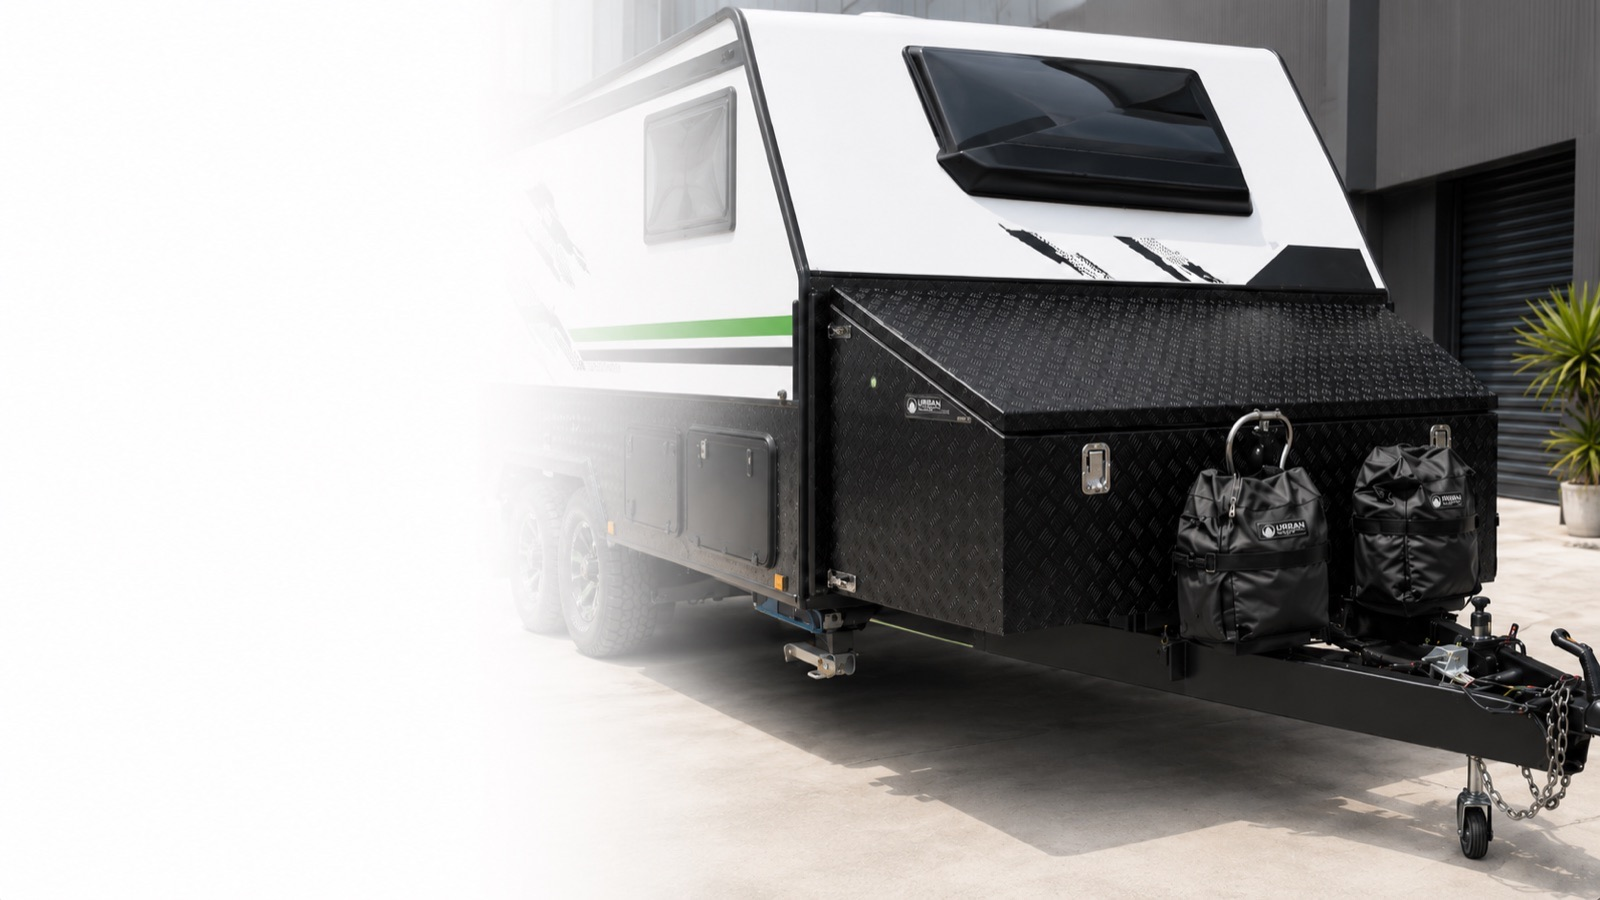
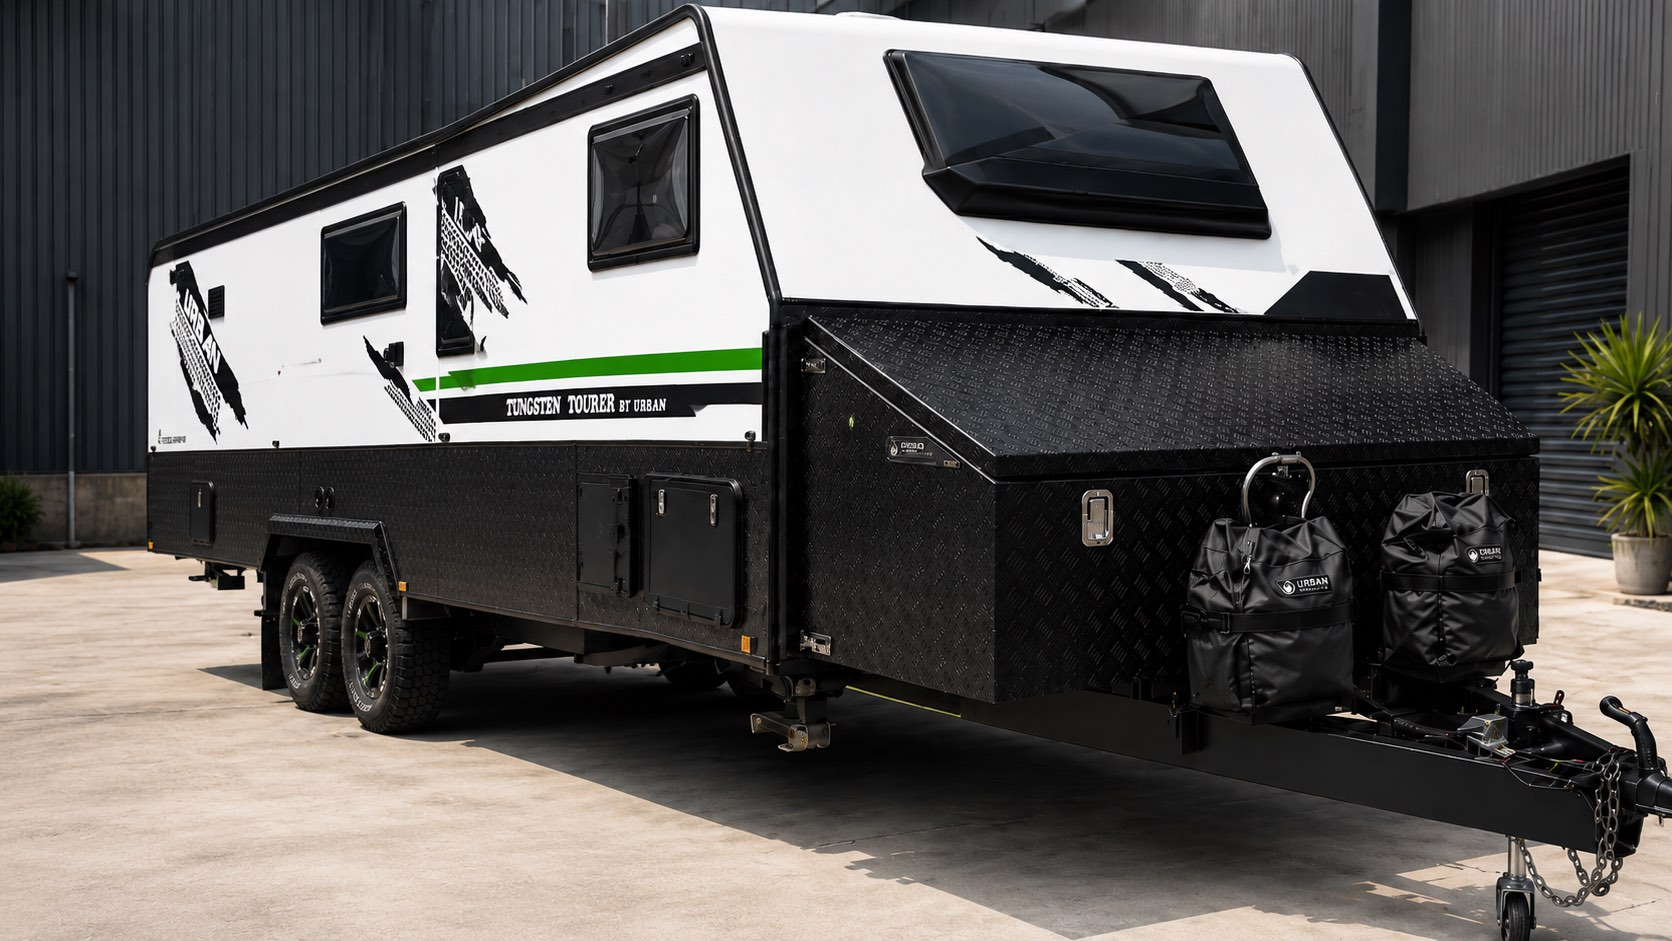
Swap hero caravan photo to Tungsten Tourer, reframe both slides lower
Replace the caravan hero shot with the Tungsten Tourer build and re-enable
its white scrim (the black checkerplate toolbox now sweeps into the left of
frame, so the ink headline needs it). Shift object-position down on both
slides so the vehicles aren't cropped at the wheels.

diff --git a/src/content/hero.js b/src/content/hero.js
@@ -19,16 +19,15 @@ export const hero = {
     slides: [
       {
         img: '/images/ute-hero.jpg',
-        pos: 'center 32%',
+        pos: 'center 58%',
         alt: 'Ute fitted with dual custom Urban Toolboxes checkerplate canopies',
       },
       {
         img: '/brand/hero-caravan.jpg',
-        pos: 'center 42%',
-        alt: 'Caravan fitted with a custom Urban Toolboxes checkerplate toolbox',
-        // This photo is bright on the left, so it reads clean without the white
-        // scrim — show it full-bleed and let the scrim fade out while it's up.
-        scrim: false,
+        pos: 'center 64%',
+        alt: 'Tungsten Tourer caravan fitted with a custom Urban Toolboxes checkerplate front toolbox',
+        // The black checkerplate toolbox sweeps into the left of this shot, so
+        // keep the white scrim on to hold the ink headline and copy legible.
       },
     ],
   },